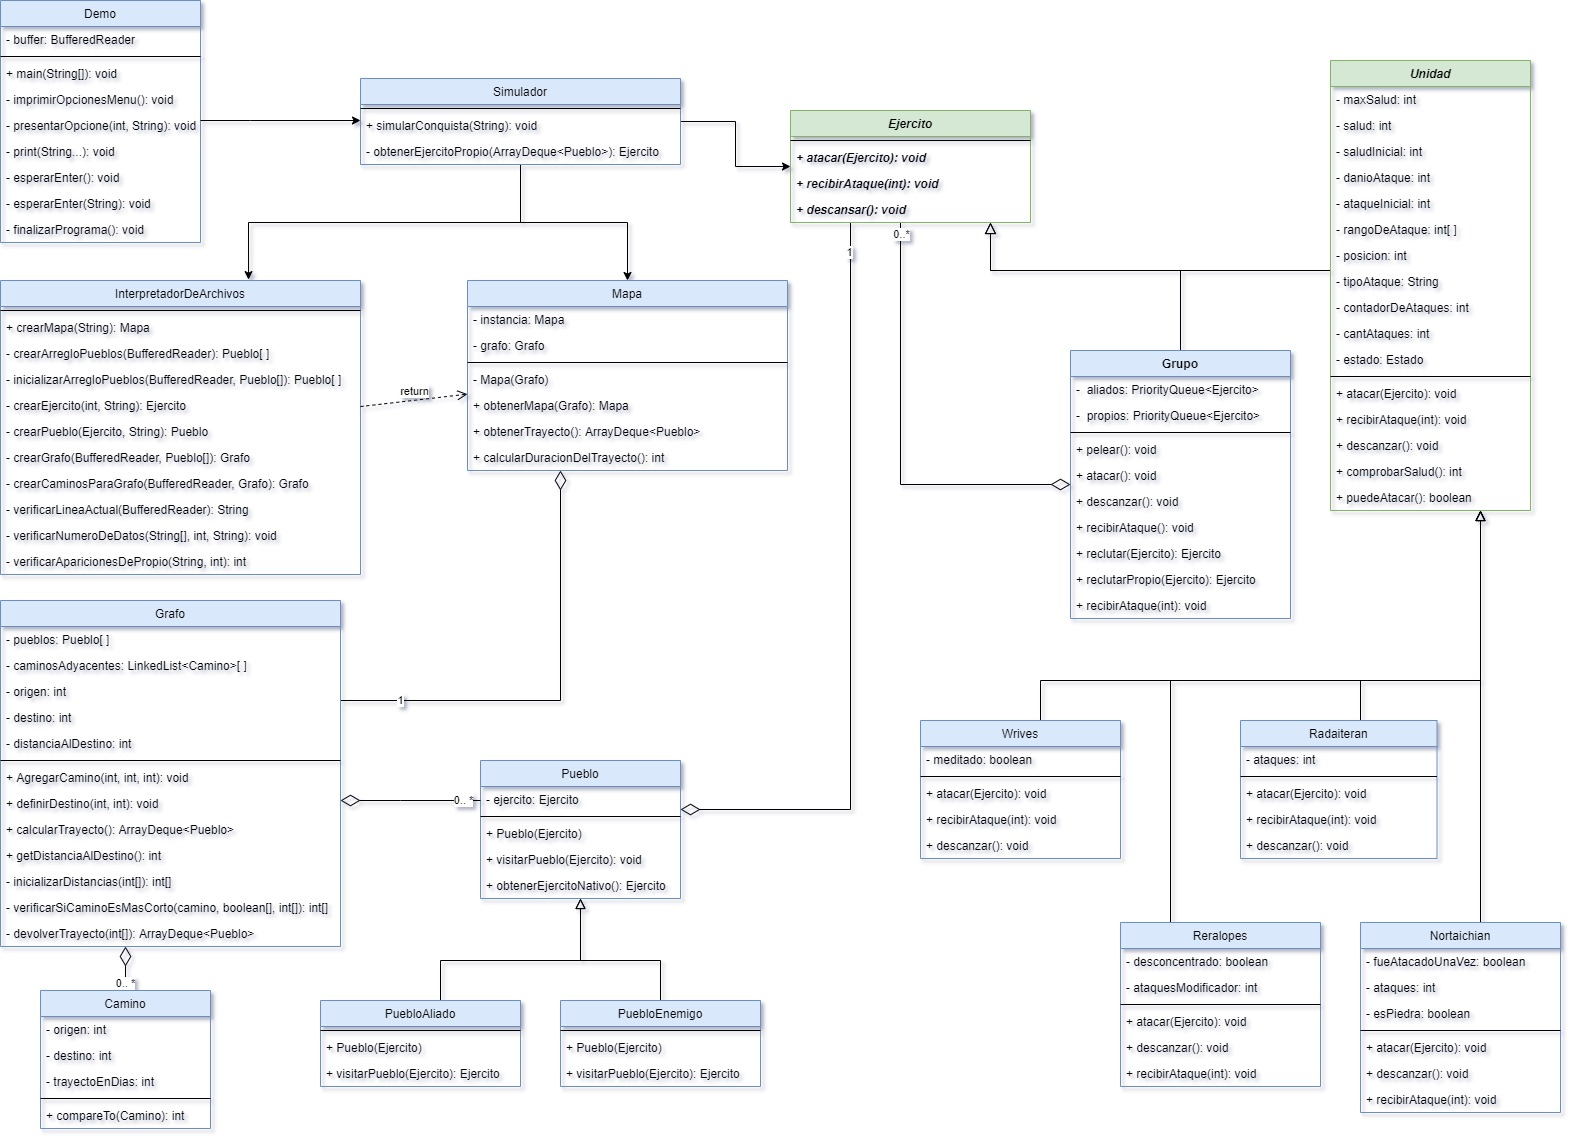
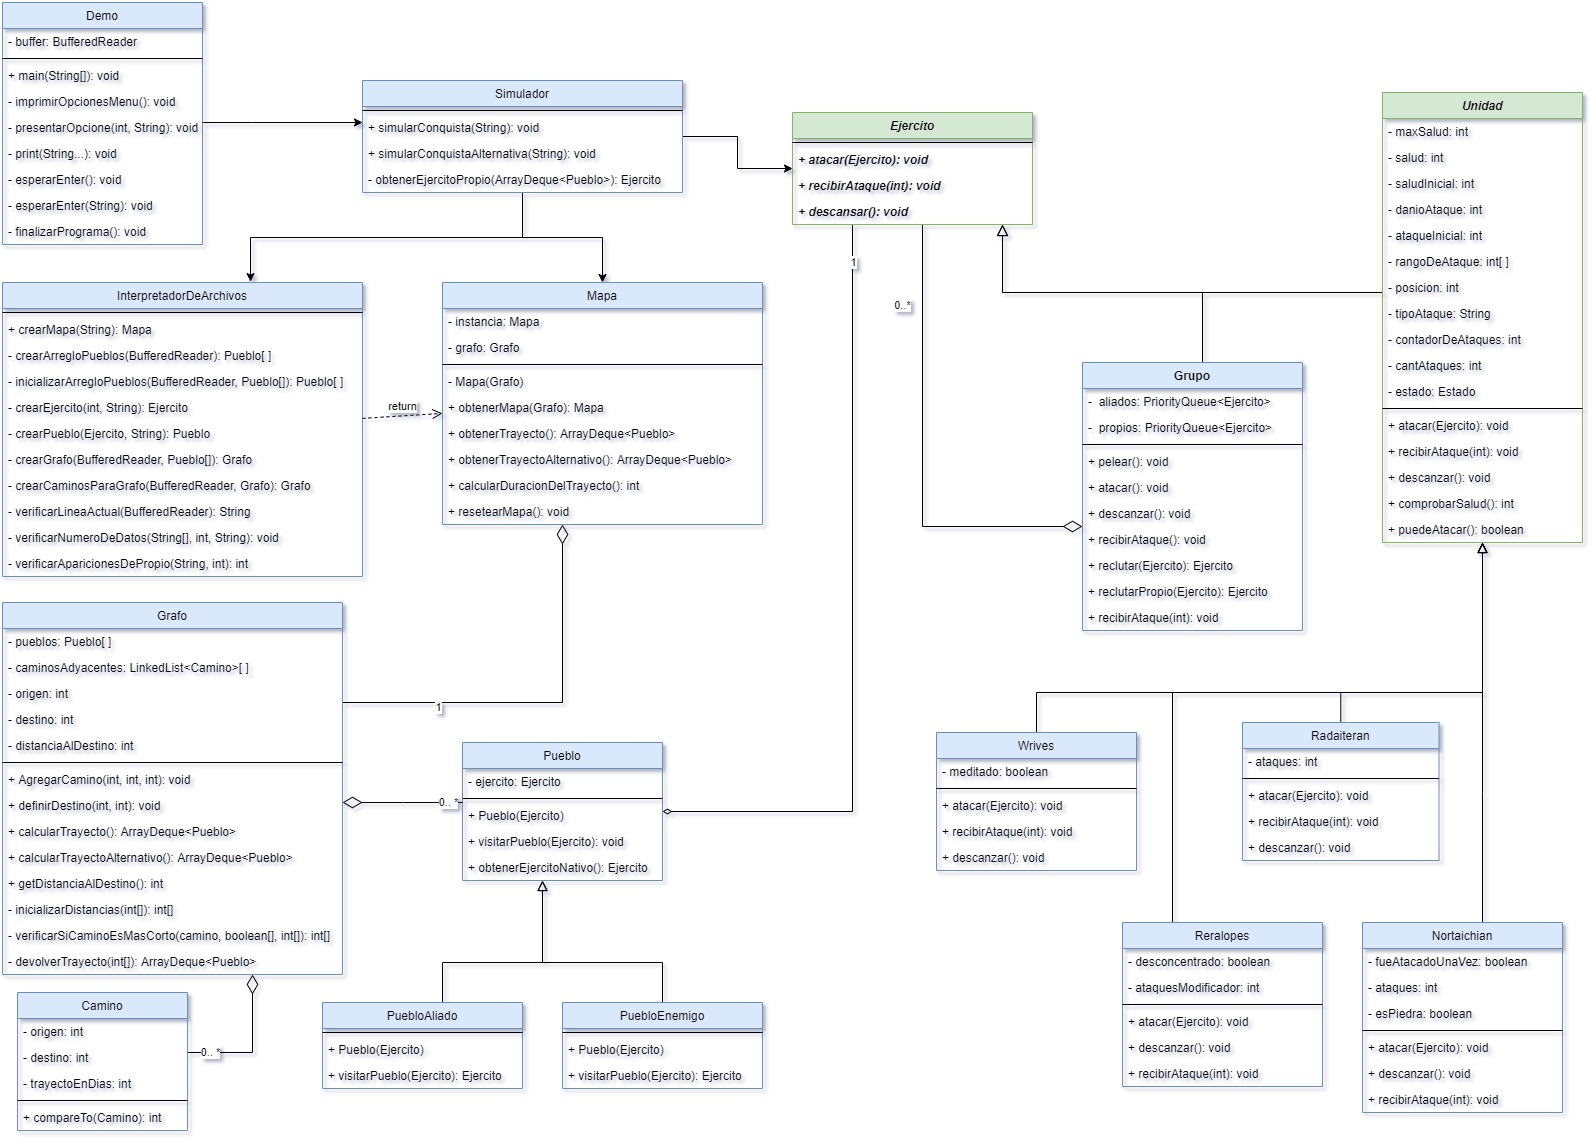
Nueva funcion: ofrecer alternativa

diff --git a/src/sistema/Simulador.java b/src/sistema/Simulador.java
@@ -11,6 +11,10 @@ import personajes.Ejercito;
 
 public class Simulador {
 
+	public Simulador() {
+		Mapa.resetearMapa();
+	}
+	
 	/**
 	 * pre : 'ruta' es la direccion de un archivo valido
 	 * post: simula la conquista de la tierra de fantasia, imprime por pantalla si la conquista es factible y la duracion de la misma.
@@ -46,6 +50,41 @@ public class Simulador {
 		}
 	}
 
+	/**
+	 * pre : 'ruta' es la direccion de un archivo valido
+	 * post: simula la conquista alternativa de la tierra de fantasia, imprime por pantalla si la conquista es factible y la duracion de la misma.
+	 * @param ruta
+	 * @throws EjercitoDesmayadoException
+	 */
+	public void simularConquistaAlternativa(String ruta) throws EjercitoDesmayadoException, InterpretadorException {
+		try {	
+			InterpretadorDeArchivos interp = new InterpretadorDeArchivos();
+
+			Mapa mapa = null;
+			mapa = interp.crearMapa(ruta);
+			if(mapa == null) {
+				throw new InterpretadorException("No se ha podido crear el mapa con el archivo de entrada provisto");
+			}
+			
+			ArrayDeque<Pueblo> pilaDePueblos = mapa.obtenerTrayectoAlternativo();
+
+			Ejercito nuestroEjercito = obtenerEjercitoPropio(pilaDePueblos);
+			int duracion = mapa.calcularDuracionDelTrayecto() + pilaDePueblos.size();
+
+			while(!pilaDePueblos.isEmpty()) {
+				pilaDePueblos.pop().visitarPueblo(nuestroEjercito);
+			}
+			System.out.println("La conquista es factible");
+			System.out.println("La conquista toma " + duracion + " dias");
+		}
+		catch (DestinoInalcanzableException e) {
+			System.out.println(e.getMessage());
+		}
+		catch (FueraRangoException e) {
+			System.out.println(e.getMessage());
+		}
+	}
+	
 	/**
 	 * post: devuelve la referencia al ejercito del primer elemento de la pila de pueblos 'trayecto'
 	 * @param trayecto

diff --git a/src/mapa/Grafo.java b/src/mapa/Grafo.java
@@ -80,6 +80,37 @@ public class Grafo {
 	}
 	
 	/**
+	 * pre : el pueblo destino es alcanzable ya que hay un camino que lo conecta directa o indirectamente con el pueblo de origen.
+	 * post: busca un camino por el cual llegar al destino pasando por la menor cantidad de pueblos posible y que el camino entre cada 
+	 * 		 pueblo sea el mas corto posible.
+	 * @return
+	 * @throws DestinoInalcanzableException
+	 */
+	public ArrayDeque<Pueblo> calcularTrayectoAlternativo() throws DestinoInalcanzableException {
+		PriorityQueue<Camino> cola = new PriorityQueue<Camino>();
+		int[] distancia = new int[pueblos.length];
+		int[] predecesor = new int[pueblos.length];
+		
+		inicializarDistancias(distancia);
+		
+		cola.offer(new Camino(origen+1, origen+1, 0));
+		
+		while(!cola.isEmpty()) {
+			for(Camino adyacente : caminosAdyacentes[cola.poll().destino()]) {
+				if(distancia[adyacente.destino()] == Integer.MAX_VALUE) {
+					distancia[adyacente.destino()] = distancia[adyacente.origen()] + adyacente.trayectoEnDias();
+					predecesor[adyacente.destino()] = adyacente.origen()+1;
+					cola.offer(adyacente);
+				}
+			}
+		}
+		
+		this.distanciaAlDestino = distancia[destino];
+		
+		return devolverTrayecto(predecesor);
+	}
+	
+	/**
 	 * post: establece la distancia entre cada pueblo como infinita.
 	 * @param distancia
 	 * @return

diff --git a/src/pruebas/GrafoTest.java b/src/pruebas/GrafoTest.java
@@ -285,4 +285,32 @@ public class GrafoTest {
 		assertTrue(listaDePueblos[10] == resultado.pop());
 		assertEquals(20, grafo.getDistanciaAlDestino());
 	}
+	
+	@Test
+	public void prueba010() throws DestinoInalcanzableException {
+	
+		Pueblo[] listaDePueblos = new Pueblo[5];
+		
+		listaDePueblos[0] = new Pueblo(null);
+		listaDePueblos[1] = new PuebloAliado(null);
+		listaDePueblos[2] = new PuebloEnemigo(null);
+		listaDePueblos[3] = new PuebloAliado(null);
+		listaDePueblos[4] = new PuebloEnemigo(null);
+		
+		Grafo grafo = new Grafo(listaDePueblos);
+		grafo.agregarCamino(1, 2, 2);
+		grafo.agregarCamino(1, 3, 6);
+		grafo.agregarCamino(1, 4, 7);
+		grafo.agregarCamino(2, 4, 3);
+		grafo.agregarCamino(2, 5, 6);
+		grafo.agregarCamino(3, 5, 1);
+		grafo.agregarCamino(4, 5, 5);
+		grafo.definirDestino(1, 5);
+		
+		ArrayDeque<Pueblo> trayectoAlternativo = grafo.calcularTrayectoAlternativo();
+		assertTrue(listaDePueblos[0] == trayectoAlternativo.pop());
+		assertTrue(listaDePueblos[1] == trayectoAlternativo.pop());
+		assertTrue(listaDePueblos[4] == trayectoAlternativo.pop());
+		assertEquals(8, grafo.getDistanciaAlDestino());
+	}
 }

diff --git a/src/mapa/Mapa.java b/src/mapa/Mapa.java
@@ -38,4 +38,18 @@ public class Mapa {
 	public int calcularDuracionDelTrayecto() {
 		return this.grafo.getDistanciaAlDestino();
 	}
+	
+	/**
+	 * pre : el pueblo destino es alcanzable ya que hay un camino que lo conecta directa o indirectamente con el pueblo de origen.
+	 * post: devuelve una pila de pueblos ordenada segun el trayecto alternativo de la conquista.
+	 * @return
+	 * @throws DestinoInalcanzableException
+	 */
+	public ArrayDeque<Pueblo> obtenerTrayectoAlternativo() throws DestinoInalcanzableException {
+		return this.grafo.calcularTrayectoAlternativo();
+	}
+	
+	public static void resetearMapa() {
+		Mapa.instancia = null;
+	}
 }
